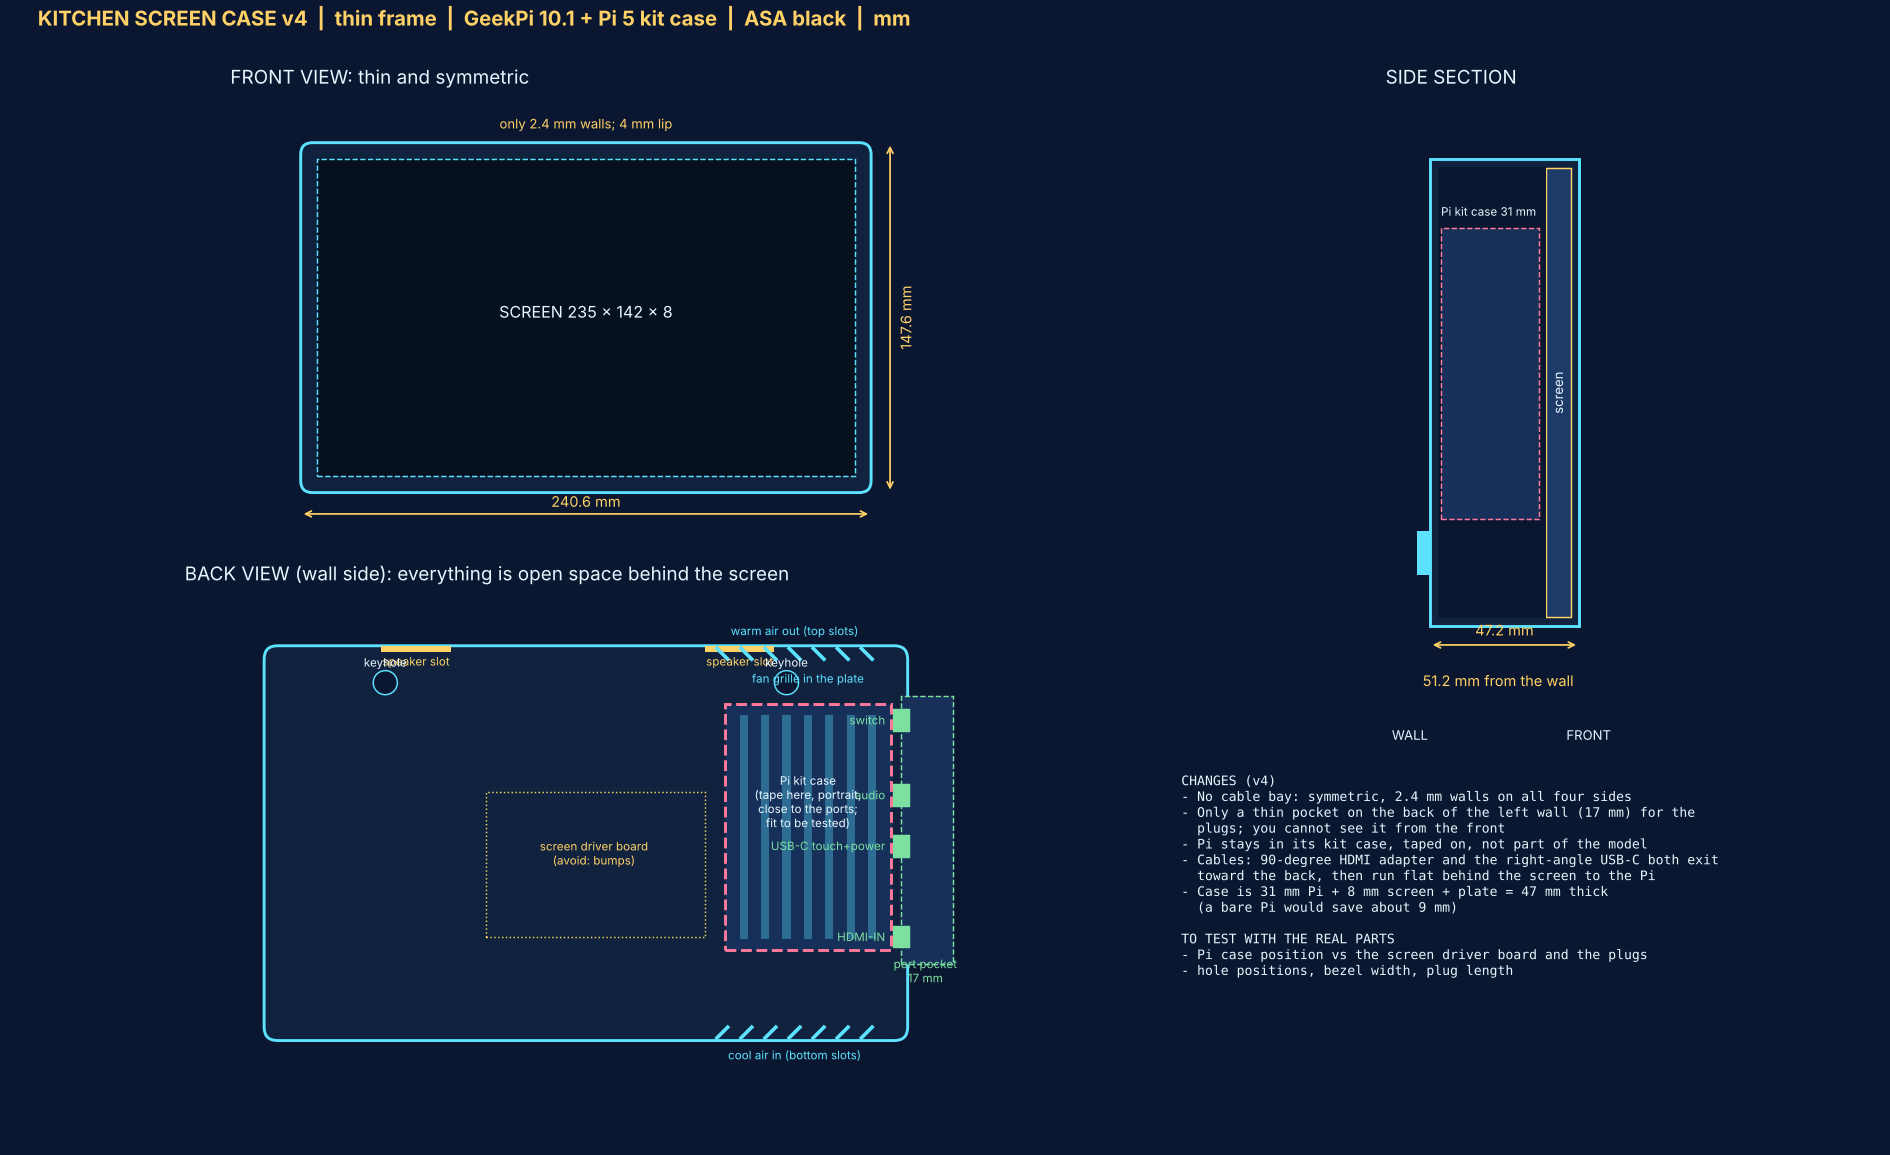
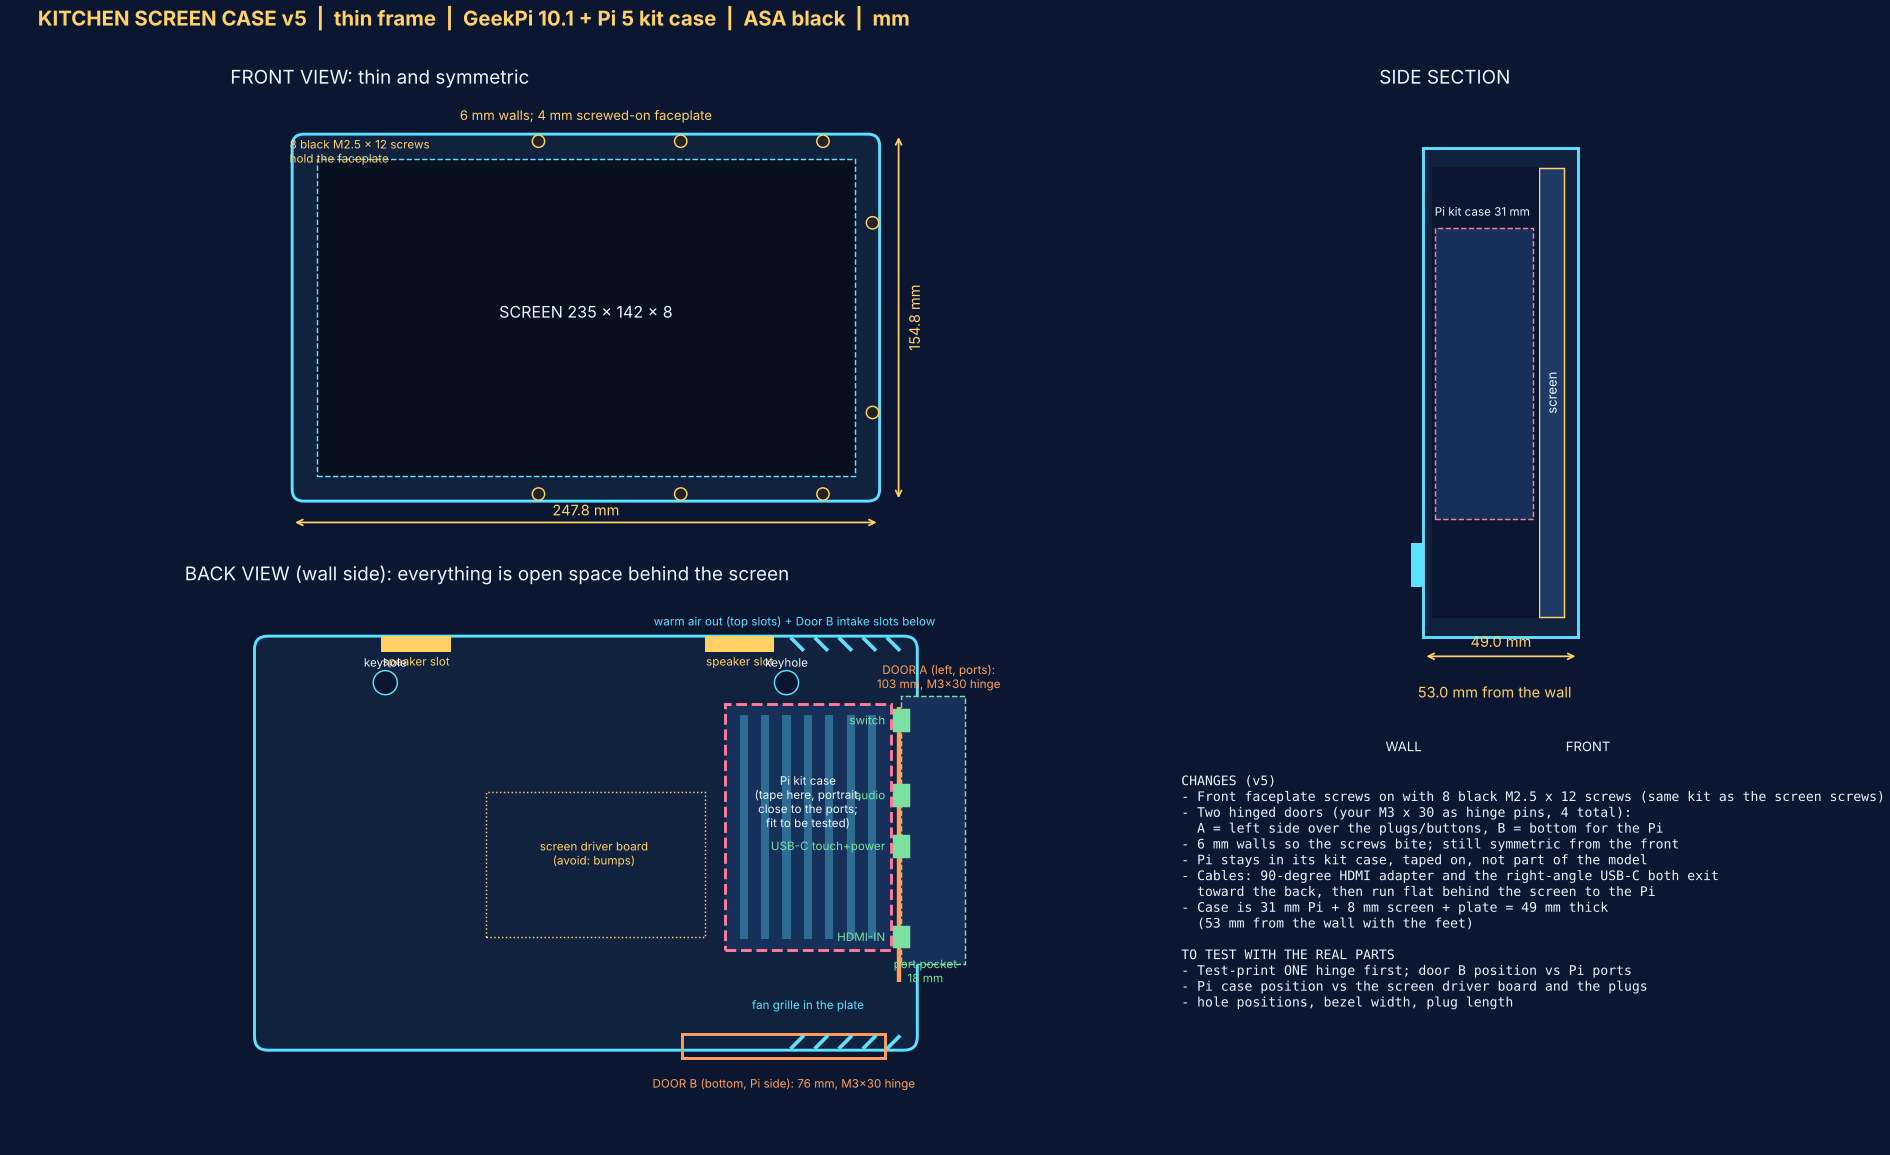
Kitchen screen case v5: screw-on faceplate, hinged doors, vents
Claude-Session: https://claude.ai/code/session_01VduVgCipjd86p1yCE67ftH

diff --git a/hardware/kitchen-screen-case/blueprint.py b/hardware/kitchen-screen-case/blueprint.py
@@ -1,8 +1,8 @@
 import matplotlib; matplotlib.use('Agg')
 import matplotlib.pyplot as plt
 from matplotlib.patches import FancyBboxPatch, Rectangle, Circle
-scr_w,scr_h,scr_t=235,142,8; fit=.4; wall=2.4; lip=2.0; bez=4; back_t=2.6; rear=34; foot=4; pocket=17
-ow=scr_w+2*(fit+wall); oh=scr_h+2*(fit+wall); zs=back_t+rear; zf=zs+scr_t+lip+.6
+scr_w,scr_h,scr_t=235,142,8; fit=.4; wall=6; plate=4; bez=4; back_t=2.6; rear=34; foot=4; pocket=18
+ow=scr_w+2*(fit+wall); oh=scr_h+2*(fit+wall); zs=back_t+rear; zf=zs+scr_t+.4+plate
 BG='#0b1730'; LN='#5ce1ff'; AC='#ffd166'; TX='#e8f6ff'; GR='#7be0a0'; OR='#ff9f5c'; PK='#ff7a9c'
 fig=plt.figure(figsize=(18,11),facecolor=BG)
 def dh(ax,x0,x1,y,t): ax.annotate('',xy=(x0,y),xytext=(x1,y),arrowprops=dict(arrowstyle='<->',color=AC,lw=1.2)); ax.text((x0+x1)/2,y+3,t,color=AC,ha='center',fontsize=10)
@@ -11,26 +11,33 @@ def setup(ax,t,xl,yl): ax.set_facecolor(BG); ax.set_aspect('equal'); ax.set_xlim
 def box(ax): ax.add_patch(FancyBboxPatch((-ow/2,-oh/2),ow,oh,boxstyle='round,pad=0,rounding_size=5',fc='#10223e',ec=LN,lw=2))
 ax=fig.add_axes([0.02,0.53,0.58,0.39]); setup(ax,'FRONT VIEW: thin and symmetric',(-150,150),(-95,95)); box(ax)
 ax.add_patch(Rectangle((-(scr_w-2*bez)/2,-(scr_h-2*bez)/2),scr_w-2*bez,scr_h-2*bez,fc='#06101f',ec=LN,lw=1,ls='--'))
-ax.text(0,0,'SCREEN 235 x 142 x 8',color=TX,ha='center',fontsize=11); dh(ax,-ow/2,ow/2,-oh/2-9,f'{ow:.1f} mm'); dv(ax,ow/2+8,-oh/2,oh/2,f'{oh:.1f} mm'); ax.text(0,oh/2+6,'only 2.4 mm walls; 4 mm lip',color=AC,ha='center',fontsize=9)
+ax.text(0,0,'SCREEN 235 x 142 x 8',color=TX,ha='center',fontsize=11);
+for x in (-20,40,100):
+  for y in (-1,1): ax.add_patch(Circle((x,y*(oh/2-wall/2)),2.6,fc='#222',ec=AC)); 
+for y in (-40,40): ax.add_patch(Circle((ow/2-wall/2,y),2.6,fc='#222',ec=AC))
+ax.text(-125,oh/2-12,'8 black M2.5 x 12 screws\nhold the faceplate',color=AC,fontsize=8)
+dh(ax,-ow/2,ow/2,-oh/2-9,f'{ow:.1f} mm'); dv(ax,ow/2+8,-oh/2,oh/2,f'{oh:.1f} mm'); ax.text(0,oh/2+6,'6 mm walls; 4 mm screwed-on faceplate',color=AC,ha='center',fontsize=9)
 ax=fig.add_axes([0.02,0.05,0.58,0.44]); setup(ax,'BACK VIEW (wall side): everything is open space behind the screen',(-150,150),(-95,95)); box(ax)
 mx=lambda x:-x
 xe=mx(-(scr_w/2+fit))
-ax.add_patch(Rectangle((xe,-45),pocket+wall,100,fc='#16305a',ec=GR,ls='--')); ax.text(xe+9,-52,'port pocket\n17 mm',color=GR,fontsize=8,ha='center')
+ax.add_patch(Rectangle((xe,-45),pocket+wall,100,fc='#16305a',ec=GR,ls='--')); ax.text(xe+9,-52,'port pocket\n18 mm',color=GR,fontsize=8,ha='center')
+x0=mx(-112); ax.add_patch(Rectangle((x0-76,-oh/2-3),76,3+wall,fc='none',ec=OR,lw=2)); ax.text(x0-38,-oh/2-14,'DOOR B (bottom, Pi side): 76 mm, M3x30 hinge',color=OR,fontsize=8,ha='center')
+ax.add_patch(Rectangle((xe-1,-52),0.1,103,fc=OR,ec=OR,lw=3)); ax.text(xe+14,58,'DOOR A (left, ports):\n103 mm, M3x30 hinge',color=OR,fontsize=8,ha='center')
 for n,d in {'switch':25,'audio':53,'USB-C touch+power':72,'HDMI-IN':106}.items(): y=scr_h/2-d; ax.add_patch(Rectangle((xe-3,y-4),6,8,fc=GR,ec=GR)); ax.text(xe-6,y,n,color=GR,fontsize=8,va='center',ha='right')
 ax.add_patch(Rectangle((-37.5,-35),82,54,fc='none',ec=AC,ls=':')); ax.text(3,-8,'screen driver board\n(avoid: bumps)',color=AC,fontsize=8,ha='center')
 ax.add_patch(Rectangle((52,-40),62,92,fc='#16305a',ec=PK,lw=2,ls='--')); ax.text(83,6,'Pi kit case\n(tape here, portrait,\nclose to the ports;\nfit to be tested)',color=TX,ha='center',fontsize=8)
-for i in range(7): x=mx(-105+i*9); ax.plot([x-2,x+2],[oh/2-1,oh/2-5],color=LN,lw=2.5); ax.plot([x-2,x+2],[-oh/2+1,-oh/2+5],color=LN,lw=2.5)
-ax.text(mx(-78),oh/2+4,'warm air out (top slots)',color=LN,fontsize=8,ha='center'); ax.text(mx(-78),-oh/2-7,'cool air in (bottom slots)',color=LN,fontsize=8,ha='center')
+for i in range(5): x=mx(-115+i*9); ax.plot([x-2,x+2],[oh/2-1,oh/2-5],color=LN,lw=2.5); ax.plot([x-2,x+2],[-oh/2+1,-oh/2+5],color=LN,lw=2.5)
+ax.text(mx(-78),oh/2+4,'warm air out (top slots) + Door B intake slots below',color=LN,fontsize=8,ha='center'); ax.text(mx(-78),-oh/2-7,'',color=LN,fontsize=8,ha='center')
 for c in (scr_w/2-54,scr_w/2-175): ax.add_patch(Rectangle((mx(c)-13,oh/2-wall),26,wall,fc=AC)); ax.text(mx(c),oh/2-wall-5,'speaker slot',color=AC,fontsize=8,ha='center')
 for i in range(-3,4): ax.add_patch(Rectangle((mx(-83+i*8)-1.5,-36),3,84,fc=LN,alpha=.35))
-ax.text(83,60,'fan grille in the plate',color=LN,fontsize=8,ha='center')
+ax.text(83,-62,"fan grille in the plate",color=LN,fontsize=8,ha='center')
 for sx in(-1,1): ax.add_patch(Circle((sx*75,60),4.5,fc=BG,ec=LN)); ax.text(sx*75,66,'keyhole',color=TX,ha='center',fontsize=8)
-ax=fig.add_axes([0.62,0.40,0.36,0.52]); setup(ax,'SIDE SECTION',(-14,66),(-95,95))
+ax=fig.add_axes([0.62,0.40,0.36,0.52]); setup(ax,'SIDE SECTION',(-14,70),(-95,95))
 ax.add_patch(Rectangle((0,-oh/2),zf,oh,fc='#10223e',ec=LN,lw=2)); 
 ax.add_patch(Rectangle((zs,-scr_h/2),scr_t,scr_h,fc='#1d3b66',ec=AC)); ax.text(zs+scr_t/2,0,'screen',color=TX,rotation=90,va='center',ha='center',fontsize=9)
 ax.add_patch(Rectangle((back_t,-oh/2+wall),zs-back_t,oh-2*wall,fc=BG,ec='none')); ax.add_patch(Rectangle((back_t+1,-40),31,92,fc='#16305a',ec=PK,ls='--')); ax.text(back_t+16,56,'Pi kit case 31 mm',color=TX,ha='center',fontsize=8)
 ax.add_patch(Rectangle((-foot,-oh/2+16),foot,14,fc=LN))
 dh(ax,0,zf,-oh/2-6,f'{zf:.1f} mm'); dh(ax,-foot,zf,-oh/2-22,f'{zf+foot:.1f} mm from the wall'); ax.text(zf-4,-oh/2-36,'FRONT',color=TX,fontsize=9); ax.text(-12,-oh/2-36,'WALL',color=TX,fontsize=9)
-fig.text(0.625,0.33,'CHANGES (v4)\n- No cable bay: symmetric, 2.4 mm walls on all four sides\n- Only a thin pocket on the back of the left wall (17 mm) for the\n  plugs; you cannot see it from the front\n- Pi stays in its kit case, taped on, not part of the model\n- Cables: 90-degree HDMI adapter and the right-angle USB-C both exit\n  toward the back, then run flat behind the screen to the Pi\n- Case is 31 mm Pi + 8 mm screen + plate = 47 mm thick\n  (a bare Pi would save about 9 mm)\n\nTO TEST WITH THE REAL PARTS\n- Pi case position vs the screen driver board and the plugs\n- hole positions, bezel width, plug length',color=TX,fontsize=9,va='top',family='monospace')
-fig.text(0.02,0.995,'KITCHEN SCREEN CASE v4  |  thin frame  |  GeekPi 10.1 + Pi 5 kit case  |  ASA black  |  mm',color=AC,fontsize=14,weight='bold',va='top')
+fig.text(0.625,0.33,'CHANGES (v5)\n- Front faceplate screws on with 8 black M2.5 x 12 screws (same kit as the screen screws)\n- Two hinged doors (your M3 x 30 as hinge pins, 4 total):\n  A = left side over the plugs/buttons, B = bottom for the Pi\n- 6 mm walls so the screws bite; still symmetric from the front\n- Pi stays in its kit case, taped on, not part of the model\n- Cables: 90-degree HDMI adapter and the right-angle USB-C both exit\n  toward the back, then run flat behind the screen to the Pi\n- Case is 31 mm Pi + 8 mm screen + plate = 49 mm thick\n  (53 mm from the wall with the feet)\n\nTO TEST WITH THE REAL PARTS\n- Test-print ONE hinge first; door B position vs Pi ports\n- Pi case position vs the screen driver board and the plugs\n- hole positions, bezel width, plug length',color=TX,fontsize=9,va='top',family='monospace')
+fig.text(0.02,0.995,'KITCHEN SCREEN CASE v5  |  thin frame  |  GeekPi 10.1 + Pi 5 kit case  |  ASA black  |  mm',color=AC,fontsize=14,weight='bold',va='top')
 fig.savefig('blueprint.png',dpi=105,facecolor=BG); print(ow,oh,zf)

diff --git a/memory/projects/living-room-build.md b/memory/projects/living-room-build.md
@@ -56,3 +56,4 @@ Started 2026-11-07 (Kylar by voice, from a photo of the living room). Owner: Kyl
 - 2026-11-08 case v3: v2's protruding Pi pod would have held the case 24 mm off the wall, so v3 uses a uniform 38.2 mm slab (42.2 mm from the wall with 4 mm feet), 293 x 154 mm. Pi 5 mounted flipped (cooler toward the plate with an intake grille, USB edge toward the cable bay, power/HDMI edge down). Cable findings: add a 90 degree HDMI adapter; SUNGUY right-angle USB-C exits toward the back; straight power plug needs 30 mm below the Pi. Still to verify by dry fit with the real parts (arrive Nov 9 to 20).
 - 2026-11-08 case v4 (Kylar: thin symmetric sides, no cable bay, Pi stays in its kit case taped behind the screen, cables run straight back): 240.6 x 147.6 mm, 2.4 mm walls, 47.2 mm thick (51.2 mm from the wall with feet), 17 mm port pocket only on the back of the left wall. Pi case position (default left strip, portrait) and plug clearances must be dry-fit with the real parts. A bare Pi would save about 9 mm.
 - 2026-11-08 cable routing: SUNGUY right-angle USB-C exits ALONG the screen edge (Kylar checked), not toward the back. Rule: USB-C cable goes UP the edge, HDMI cable goes DOWN the edge, so they never cross (ports about 34 mm apart). HDMI end still needs a 90 degree adapter. Pocket widened to 18 mm and made taller (down to 52 mm below the screen centre) in the SCAD. Dry-fit when the cable arrives Nov 9.
+- 2026-11-08 case v5: front faceplate screws on (8 black M2.5 x 12), two hinged doors (left over ports, bottom for the Pi) with M3 x 30 pins, 6 mm walls, 247.8 x 154.8 x 49 mm. Not compiled; dry fit Nov 10.

diff --git a/memory/changelog.md b/memory/changelog.md
@@ -1,6 +1,9 @@
 # Changelog: what Claude did (newest first)
 Claude adds an entry every time it changes something, so any conversation, Jarvis, or Kylar can see the history. Format: date, what, where, status (built / tested here / installed on Pi / confirmed by Kylar).
 
+## 2026-11-08 Kitchen screen case v5
+- Screw-on front faceplate (8 black M2.5 x 12), two hinged side/bottom doors (M3 x 30 hinge pins), 6 mm walls, vents kept (top slots, fan grille, speaker slots, door intake). Buy: 6-pack angled HDMI adapter, Kernmax M2.5 screw kit. Status: draft, NOT test-compiled; print one hinge first; door B position depends on the Nov 10 dry fit.
+
 ## 2026-11-08 Cable routing for the kitchen screen
 - USB-C up, HDMI down along the edge; pocket 18 mm and taller. Status: dry fit pending.
 
